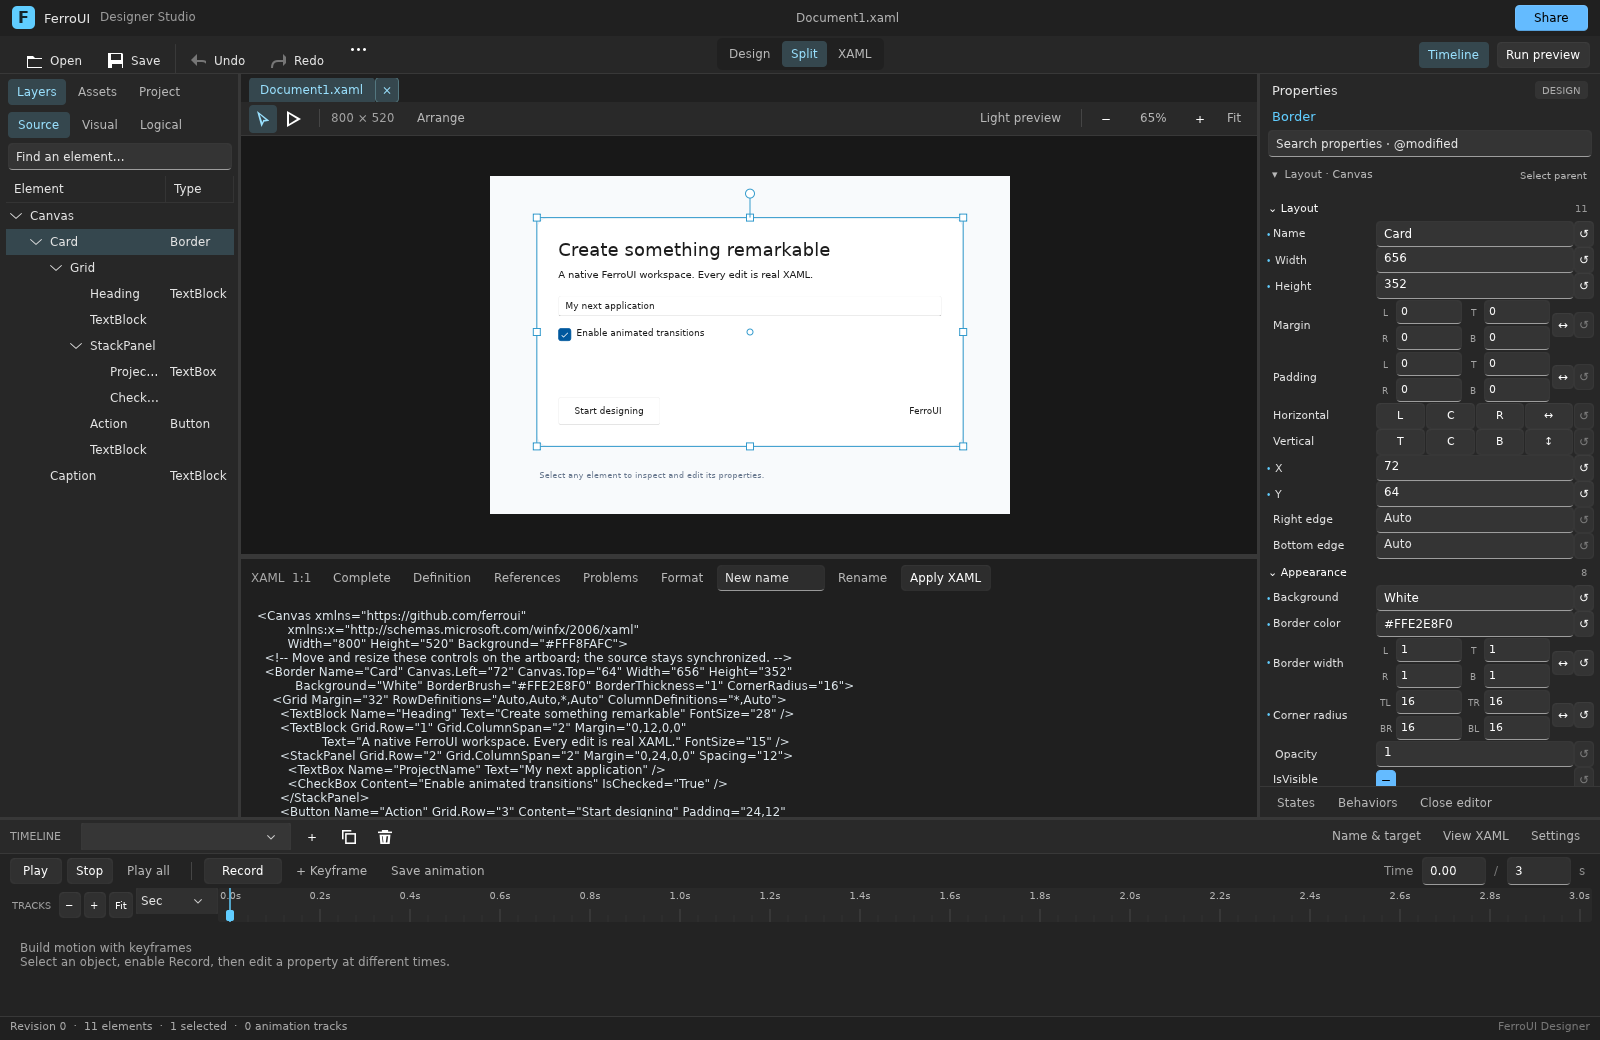
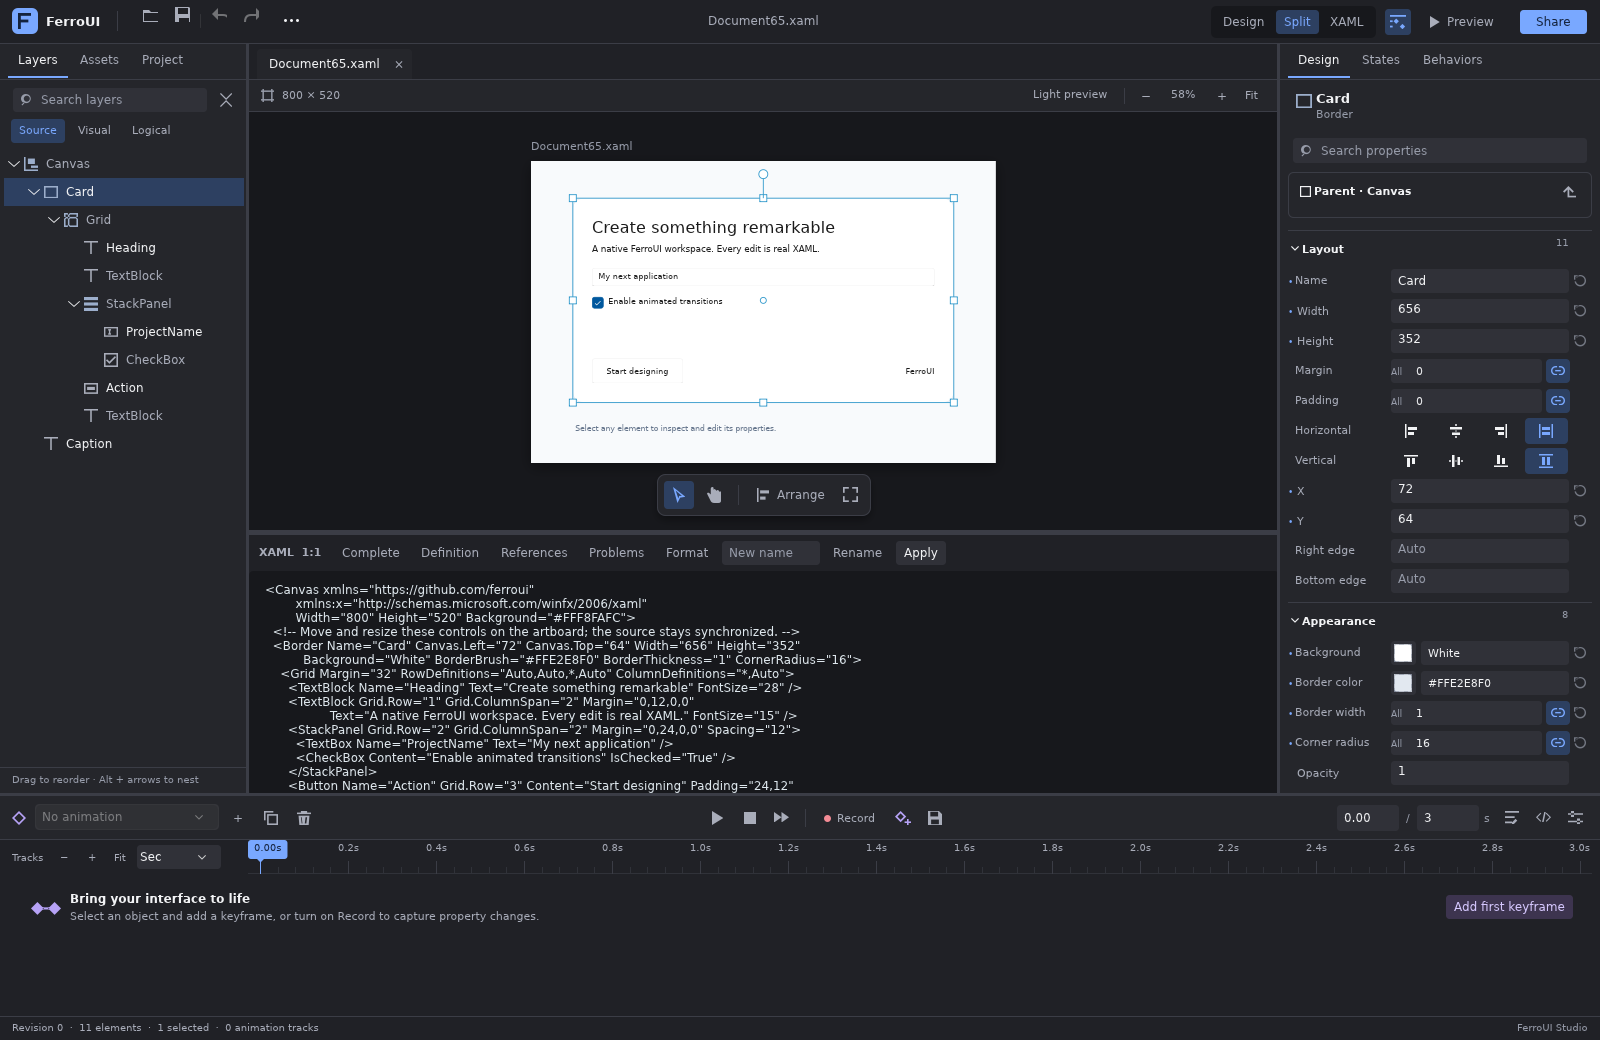
docs(designer): document the visual system and capture complete native workflows

diff --git a/docs/designer/README.md b/docs/designer/README.md
@@ -5,13 +5,16 @@ The workspace combines an artboard, synchronized source editor, object hierarchy
 logical trees, properties, layout manipulation, and animation tracks. All authored changes pass
 through a document transaction; the artboard renders actual FerroUI controls.
 
-![Native workspace with a recorded Width animation at 1.5 seconds](images/designer-animation.png)
+![Native designer with scoped studio chrome, semantic layers and contextual properties](images/designer-workspace.png)
 
-This image is captured from the native Vello/HarfBuzz rendering test using the WinUI theme.
-The property inspector retains the authored Width of 656 while animation previews 608 at the
+This image is captured from the native Vello/HarfBuzz rendering test using WinUI controls and
+the designer's scoped visual language. The [design study and token guide](visual-design.md)
+explains the Blend, Figma and Penpot patterns applied throughout the workspace.
+In the [animation capture](images/designer-animation.png), the property inspector retains
+the authored Width of 656 while animation previews 608 at the
 playhead; the source retains the base value. Effective values and value origins are available in
 property-cell tooltips.
-The [initial workspace capture](images/designer-workspace.png) shows the same document before edits.
+The [compact workspace](images/designer-compact.png) demonstrates the same controls at 1280 × 820.
 
 ## Run
 
@@ -37,7 +40,7 @@ application does. Use `DesignerWorkspace::with_uri` when relative includes and r
 original document location. A raw resource dictionary or style document needs a host that supplies
 an appropriate preview control; it is not a standalone control artboard.
 
-The **Run preview** command opens the actual platform Window, including decorations, sizing and
+The **Preview** command opens the actual platform Window, including decorations, sizing and
 registered code-behind behavior. Its lifetime is owned by the preview and follows accepted source
 changes. The inline artboard retains a content projection for selection and geometry editing.
 `PreviewHostOptions` registers metadata callbacks, application root factories keyed by `x:Class`
@@ -55,29 +58,39 @@ remain dirty.
 
 ## Native workspace
 
-Designer Studio uses the repository's WinUI theme, including its native button, text, numeric,
-menu, focus and disabled states. The workspace starts in **Design** mode with a large artboard.
+Designer Studio uses native WinUI controls with reusable scoped chrome: semantic color resources,
+inset fields, full keyboard-focus outlines, quiet dock tabs and consistent vector commands.
+The preview keeps its own application theme. The workspace starts in **Design** mode with a large artboard.
 **Split** exposes the synchronized XAML editor, and **XAML** gives it the entire document area.
 F6 cycles these views without reloading the document or discarding partially typed source.
 **Fit** uses the measured canvas viewport. The **Timeline** command releases its working space
 when hidden and restores its resized height when reopened.
+**Focus canvas** temporarily hides both docks and the timeline, preserving their sizes and view
+state. Use the canvas shelf or Ctrl+Shift+F / Cmd+Shift+F to restore them. `V` selects objects;
+`I` interacts with the native preview when no text editor owns input.
 
 The left dock switches between **Layers**, **Assets** and **Project**:
 
 - **Layers** uses a virtualized TreeDataGrid for source, visual and logical trees. Expansion and
-  selection are retained across refreshes. Search keeps matching ancestors visible and does not
+  selection are retained across refreshes. One column shows semantic kind icons and authored
+  names or resource keys; tooltips retain full type information. Native type-ahead and the
+  selection-preserving Collapse layers command help navigate deep trees. Search keeps matching ancestors visible and does not
   modify document selection. Authored source rows support ordered multi-selection drag and drop
   before, after or inside compatible containers. Drops use one source transaction and one undo
   step; generated runtime rows, stale drags, cycles and occupied single-content hosts are rejected.
 - **Assets** is a reusable searchable catalog with categories, vector icons, native keyboard
-  activation and drag-to-place behavior. Hosts can register their own snippets and icons with
+  activation and drag-to-place behavior. Switch between visual Grid cards and a compact List with
+  descriptions without losing filters. Hosts can register their own snippets and icons with
   `DesignerWorkspace::register_asset` or use `AssetToolbox` independently.
 - **Project** uses a hierarchical TreeDataGrid for project folders, XAML documents and assets.
   File activation shares the same canonical URI identity as tabs, language edits and saves.
 
 The property dock is a TreeDataGrid with collapsible categories and lazily created value editors.
-It includes scrubbable numeric labels, direct alignment choices, linked four-component editors
-for spacing/corner radii, tri-state booleans, enum pickers, expressions and mixed selections.
+It includes scrubbable numeric labels, visual alignment/flow choices, linked spacing/corner
+radii, solid-color swatches, tri-state booleans, enum pickers, expressions and mixed selections.
+Uniform components use one **All** field; the chain control reveals the independent sides.
+The color flyout reuses native ColorView spectrum, palette, components and alpha controls.
+Picker changes remain drafts until Apply and create one undoable source transaction.
 Search supports multiple terms and `@modified` / `@local` filters. Enter commits typed text or
 numbers; a scrub commits once on release and cancels with Escape. Custom editor factories take
 precedence over the built-ins. The reset
@@ -109,31 +122,43 @@ session. The select and interact tools switch between source manipulation and li
 The top command bar keeps document/history actions visible and moves secondary file/edit actions
 into its native overflow menu.
 
-The animation editor has a labelled time ruler, compact object/property lanes and a contextual
-keyframe editor. Ctrl-click toggles keys, Shift-click selects ranges, and dragging empty lane
-space selects a marquee. Move, duplicate or delete groups across tracks in one undoable source
-transaction. Selected keys keep their relative offsets, values and easing; collisions reject the
+The animation editor has a fixed time ruler, two-line object/property headers, violet keys and
+authored ranges, a blue playhead, and a fixed contextual keyframe editor. The ruler and editor
+stay available while tracks scroll. A sampled easing preview follows the actual engine curve,
+including overshoot; invalid drafts clear the graph. Ctrl-click toggles keys, Shift-click
+selects ranges, and dragging empty lane space selects a marquee. Move, duplicate or delete
+groups across tracks in one undoable source transaction. Selected keys keep their relative
+offsets, values and easing; collisions reject the
 entire edit. Choose seconds or 24/30/60 fps snapping. Double-click a lane to record, or use arrow
 keys to nudge selected keys. Escape and lost pointer capture cancel a drag without authoring it.
 Ctrl+wheel or +/- zooms the timeline; Shift+wheel or PageUp/PageDown pans the visible range.
 The contextual editor validates time, value and easing together before one undoable transaction.
-**+ Keyframe** records the selected track's live property value, with Opacity as the initial
-fallback for an object without a track. **Name & target** reveals program details; creating or
-duplicating programs allocates useful unique defaults even when those details are closed.
+The **Add a keyframe at the playhead** icon command records the selected track's live property
+value, with Opacity as the initial fallback for an object without a track. The **Animation name
+and target** icon command reveals program details; creating or duplicating programs allocates
+useful unique defaults even when those details are closed.
 Keyboard focus follows accepted timeline and Grid edits so repeated edits stay in the same
 control. The [multi-key timeline capture](images/designer-timeline-selection.png) shows group
 selection with frame snapping enabled.
+The [motion editor capture](images/designer-motion-editor.png) shows multiple property tracks
+and the live easing graph. **States** and **Behaviors** use the full inspector height;
+behavior pickers reveal the fields relevant to the chosen trigger and action.
 
-Reusable public controls and workspace APIs include `AssetToolbox`, `DesignerAsset`, `AssetIcon`,
-`TimelineLane`, `PropertyNumberScrubber`, `PropertyComponentsEditor`, `GridTrackEditor`,
+Reusable public controls and workspace APIs include `designer_chrome_style`, `AssetToolbox`,
+`AssetViewMode`, `DesignerAsset`, `AssetIcon`, `TimelineLane`, `EasingPreview`,
+`PropertyNumberScrubber`, `PropertyComponentsEditor`, `PropertyColorEditor`, `GridTrackEditor`,
 `OutlineCommand`, `WorkspaceViewMode`, `NavigationPane`, inspection-grid accessors and the
-workspace's single/group keyframe APIs. These controls send semantic actions through the session;
-they do not modify runtime controls behind the document authority. The
+workspace's single/group keyframe APIs. The workspace routes authoring callbacks through its
+session; standalone hosts supply their own transaction callbacks. The controls do not modify
+runtime controls behind the document authority. The
 [native controls guide](native-controls.md) includes host integration examples and the complete
 property, layout, hierarchy, asset and timeline interaction contracts.
 
 Native rendering also covers the [asset catalog](images/designer-assets.png),
-[split view](images/designer-split.png) and [compact workspace](images/designer-compact.png).
+[asset list](images/designer-assets-list.png), [split view](images/designer-split.png),
+[canvas focus](images/designer-canvas-focus.png), [color popup](images/designer-color-editor.png),
+[states](images/designer-states.png), [behaviors](images/designer-behaviors.png),
+[animation settings](images/designer-animation-settings.png) and [sharing](images/designer-sharing.png).
 The [engine performance report](performance.md) records controlled workloads, raw measurements,
 reproduction commands and the initial-index tradeoff separately from UI verification.
 

diff --git a/docs/designer/native-controls.md b/docs/designer/native-controls.md
@@ -1,32 +1,47 @@
 # Native designer controls and interaction guide
 
 The designer workspace composes ordinary FerroUI controls with reusable `AssetToolbox`,
-`TimelineLane`, `PropertyNumberScrubber`, `PropertyComponentsEditor` and `GridTrackEditor`
+`TimelineLane`, `EasingPreview`, `PropertyNumberScrubber`, `PropertyComponentsEditor`,
+`PropertyColorEditor` and `GridTrackEditor`
 components. Hosts can use these without loading the workspace shell. They do not own a
 document, start a window, or create an undo
 stack; their callbacks let the host apply changes through its existing transaction boundary.
+
+## Shared chrome and embedding
+
+`designer_chrome_style()` returns the reusable style collection from `DesignerChrome.xaml`.
+Add it to a host's styles and apply `designer-chrome` to editor containers. The loader registers
+the types referenced by its selectors. All semantic color resources have a `Designer` prefix;
+they do not replace application-theme keys or recolor the preview. The
+[visual design guide](visual-design.md) lists tokens, metrics and reference decisions.
 
 ## Compact property inspector
 
 Properties are grouped into collapsible categories. Common geometry stays in Layout; minimum
 and maximum dimensions are available under Advanced. Search matches every term and supports
-`@modified` and its alias `@local` for authored overrides, including expressions. A value-origin dot and
-native tooltip distinguish authored values, expressions and runtime effective values. Changing
+`@modified` and its alias `@local` for authored overrides, including expressions. A dot marks
+authored overrides, a diamond identifies an expression, and inherited values have no marker.
+Native tooltips include the effective value and its runtime origin. Changing
 the filter does not author source or discard the document selection.
 
-Numeric property names are `PropertyNumberScrubber` controls. Drag a label horizontally to
-adjust its draft, then release to commit one transaction. Shift multiplies the configured step
+Eligible numeric property names are `PropertyNumberScrubber` controls; mixed selections,
+expressions, object-valued properties and unavailable numeric values retain ordinary labels.
+Drag a scrubber label horizontally to adjust its draft, then release to commit one transaction.
+Shift multiplies the configured step
 by ten; Ctrl divides it by ten. Arrow keys use the same policy. Escape, lost pointer capture,
 or reconfiguration cancels a drag. `PropertyNumberOptions` sets minimum, maximum, step and
 integer rounding. Native numeric value fields remain directly editable; Enter commits text.
 
 `PropertyComponentsEditor` presents Margin/Padding/BorderThickness as L/T/R/B and CornerRadius as
 TL/TR/BR/BL. The link button switches between a common value and independent components.
+Built-in editors initially link uniform values and show one **All** field. Mixed or nonuniform
+values retain explicit components. Toggling the chain is view state and does not author values.
 Enter validates and commits the four values together; Escape restores the accepted values.
 A mixed selection starts with empty components rather than inventing zeros. In unlinked mode,
 all four values must be explicit before committing a mixed edit; linked mode applies one explicit
 value to all four. Padding, border thickness and corner radii enforce nonnegative values;
-margins may be negative. Alignment editors provide four directly accessible choices.
+margins may be negative. Alignment editors provide four vector choices with native keyboard
+activation and automation names; orientation uses explicit horizontal/vertical flow icons.
 
 Custom hosts construct a scrubber with `PropertyNumberScrubber::new()`, call `configure`
 with an accepted label/value/options, and handle `on_commit`. Construct a compound editor
@@ -35,6 +50,24 @@ with `PropertyComponentsEditor::new(PropertyComponentsKind::Thickness, false)`, 
 the view without generating an authoring callback. `control()` embeds a compound editor in
 another view; a scrubber is itself a native control. Existing `PropertyEditorFactory` extension
 points take precedence over built-ins and are used by the contextual panel editors too.
+
+### Solid color editor
+
+`PropertyColorEditor::new() -> Result<Self, String>` creates a swatch, source field and native
+ColorView flyout. `configure(Option<&str>, bool) -> Result<(), String>` updates accepted state
+without committing. Its first argument accepts a literal solid color or `None`; the second
+indicates a mixed selection. An expression, complex brush or invalid color returns `Err` and
+leaves the accepted state unchanged. The workspace's built-in factory uses ordinary source
+editing for those values; standalone hosts provide their own fallback. `on_commit` receives a
+source value only after Enter or explicit Apply. Spectrum, palette and component adjustments
+remain drafts while the popup is open; Cancel and dismissal discard them. Named colors retain
+their spelling when confirmed unchanged, and explicit confirmation can materialize an inherited
+effective color. Mixed selection requires an explicit value.
+
+`control`, `text_editor`, `swatch_button`, `color_view` and `flyout` expose the native components.
+The popup scopes the ColorView library's compatibility resources locally so its spectrum,
+palette, components and alpha controls work under the WinUI host. Expressions and complex
+brushes retain source editing; the solid picker does not flatten them.
 
 ### Dropping values and references
 
@@ -85,6 +118,16 @@ entirely by a style or factory are rejected rather than flattened. Structural Gr
 ordinary source edits even when animation recording is enabled.
 
 ## Hierarchy and artboard
+
+Layer rows use a single virtualized template column with semantic icons and name/key/type
+identity. Complete type/context remains in tooltips and automation names. Native type-ahead
+search is forwarded through hierarchical expanders, including custom template text selectors.
+`DesignerWorkspace::collapse_outline()` collapses unrelated branches and retains the selected
+ancestor paths without touching source or undo history.
+
+`canvas_focused()` and `set_canvas_focused(bool)` provide the temporary canvas-focused workspace.
+The side widths, prior timeline visibility/height, source draft and panel modes survive the
+round trip. The toolbar command and Ctrl+Shift+F / Cmd+Shift+F share this API.
 
 Source hierarchy drags preserve source order and selected subtrees. Hovering over a compatible
 collapsed container expands it; native TreeDataGrid scrolling and drop adorners stay active.
@@ -149,7 +192,17 @@ For a separate host, construct `AssetToolbox::new(default_designer_assets())`, e
 `set_category`, `visible_asset_ids`, `assets`, and `register` methods also support a host's
 own catalog UI or integration tests.
 
+`set_view_mode(AssetViewMode::Grid)` uses category cards; `AssetViewMode::List` uses compact
+name/description rows. `view_mode()` reports the current presentation. Switching views preserves
+the query, category, catalog and placement callbacks. `DesignerWorkspace::asset_toolbox()`
+returns `Option<Rc<AssetToolbox>>` for hosts that need these browsing controls.
+
 ## Timeline tracks and ruler
+
+The workspace uses separate fixed hosts for the ruler and keyframe inspector; only the track
+list scrolls. Two-line track headers distinguish the target and property, with a separate key
+count. Violet ranges/diamonds represent authored animation; the blue time flag identifies the
+playhead and stays inside the viewport at both endpoints.
 
 `TimelineLane::new()` creates a keyframe lane. `TimelineLane::ruler()` creates a time ruler.
 Configure both with the same duration and visible interval to align ticks, diamonds, and
@@ -202,6 +255,12 @@ at close zoom levels; Alt disables snapping. Tick labels adapt to the visible sc
 including millisecond precision. Keys are sorted once during configuration, hit testing uses
 binary search, and rendering visits only keys inside the visible interval.
 
+`EasingPreview::new()` creates the small native graph used beside the keyframe's curve field.
+`set_easing(Some(easing))` samples the actual animation engine, including overshoot.
+`set_easing(None)` clears the preview and shows an invalid-draft marker; `easing()` returns the
+accepted display value. The graph never authors a keyframe. The workspace updates it while
+typing or choosing a preset, and commits only when the keyframe editor's Apply action succeeds.
+
 The workspace offers seconds or 24/30/60 fps snapping. A host can use
 `set_frame_rate(Some(fps))` for any integer rate from 1 through 1,000, or `None` for seconds.
 In frame mode arrows move by one frame, Shift by ten frames, and Ctrl retains whole-frame
@@ -228,8 +287,9 @@ Zoom, pan, and Fit update existing lanes without rebuilding keyframe editors. Th
 native focus and unfinished input while changing the viewport. Shortening an animation
 resets an interval that no longer fits its duration.
 
-`+ Keyframe` records the currently selected track's property when it belongs to the selected
-object; otherwise it records that object's opacity. Values come from the accepted live
+The **Add a keyframe at the playhead** icon command records the currently selected track's
+property when it belongs to the selected object; otherwise it records that object's opacity.
+Values come from the accepted live
 preview at the playhead, including interpolation. Record mode continues to capture supported
 property edits through the existing session recording pipeline.
 

diff --git a/docs/designer/visual-design.md b/docs/designer/visual-design.md
@@ -26,6 +26,10 @@ logical trees remain separate inspection modes. Animation editing still writes n
 XAML through the transaction engine, and the property editor still respects expressions,
 mixed values, custom factories and effective runtime values.
 
+The sharing dialog follows the same hierarchy: identity, start/join actions, then session
+access. Connection settings are disclosed separately, and member/invitation controls appear
+when a session exists. Merely opening the dialog starts no transport and changes no source.
+
 ## Hierarchy and workspace
 
 The application bar holds file/history commands, Design/Split/XAML modes, preview and
@@ -65,9 +69,9 @@ resources use the `Designer` prefix; no application-theme resource is replaced.
 | Motion authoring | `DesignerMotionBrush` | `#B6A2F6` |
 | Recording | `DesignerRecordingBrush` | `#F48B95` |
 
-Body text is 12 px; section labels and supporting text use 11 px. Inspector inputs are
-26 px high, toolbar targets are usually 28–32 px, and layer rows are 28 px. Field corners
-use 4 px; the canvas shelf uses 8 px. Eight- and twelve-pixel gutters establish consistent
+Body text is 12 px; section labels and supporting text use 11 px. Inspector inputs use a
+26 px minimum height, toolbar targets are usually 28–32 px, and layer rows have a 28 px minimum.
+Field corners use 4 px; the canvas shelf uses 8 px. Eight- and twelve-pixel gutters establish consistent
 spacing. Supporting text has a calculated contrast ratio of 5.50:1 on the panel surface
 and 4.72:1 on the field surface. State meaning also appears in labels, geometry and
 tooltips, rather than depending on color alone.
@@ -75,9 +79,9 @@ tooltips, rather than depending on color alone.
 Inputs use an even outline, a restrained hover border and a full blue keyboard-focus
 border. Reset appears for authored values. Alignment uses vector controls. Uniform
 spacing can use one linked value; nonuniform and mixed values retain explicit components.
-Solid colors use a swatch and native color view. Spectrum changes remain a local draft
-until Apply, so a continuous color drag produces one authored transaction. Expressions
-and richer brushes retain their source representation.
+Solid colors use a swatch and native color view. Picker changes remain a local draft
+until Apply, so a continuous color drag produces one authored transaction. Typed source
+values commit with Enter. Expressions and richer brushes retain their source representation.
 
 ## Motion presentation
 
